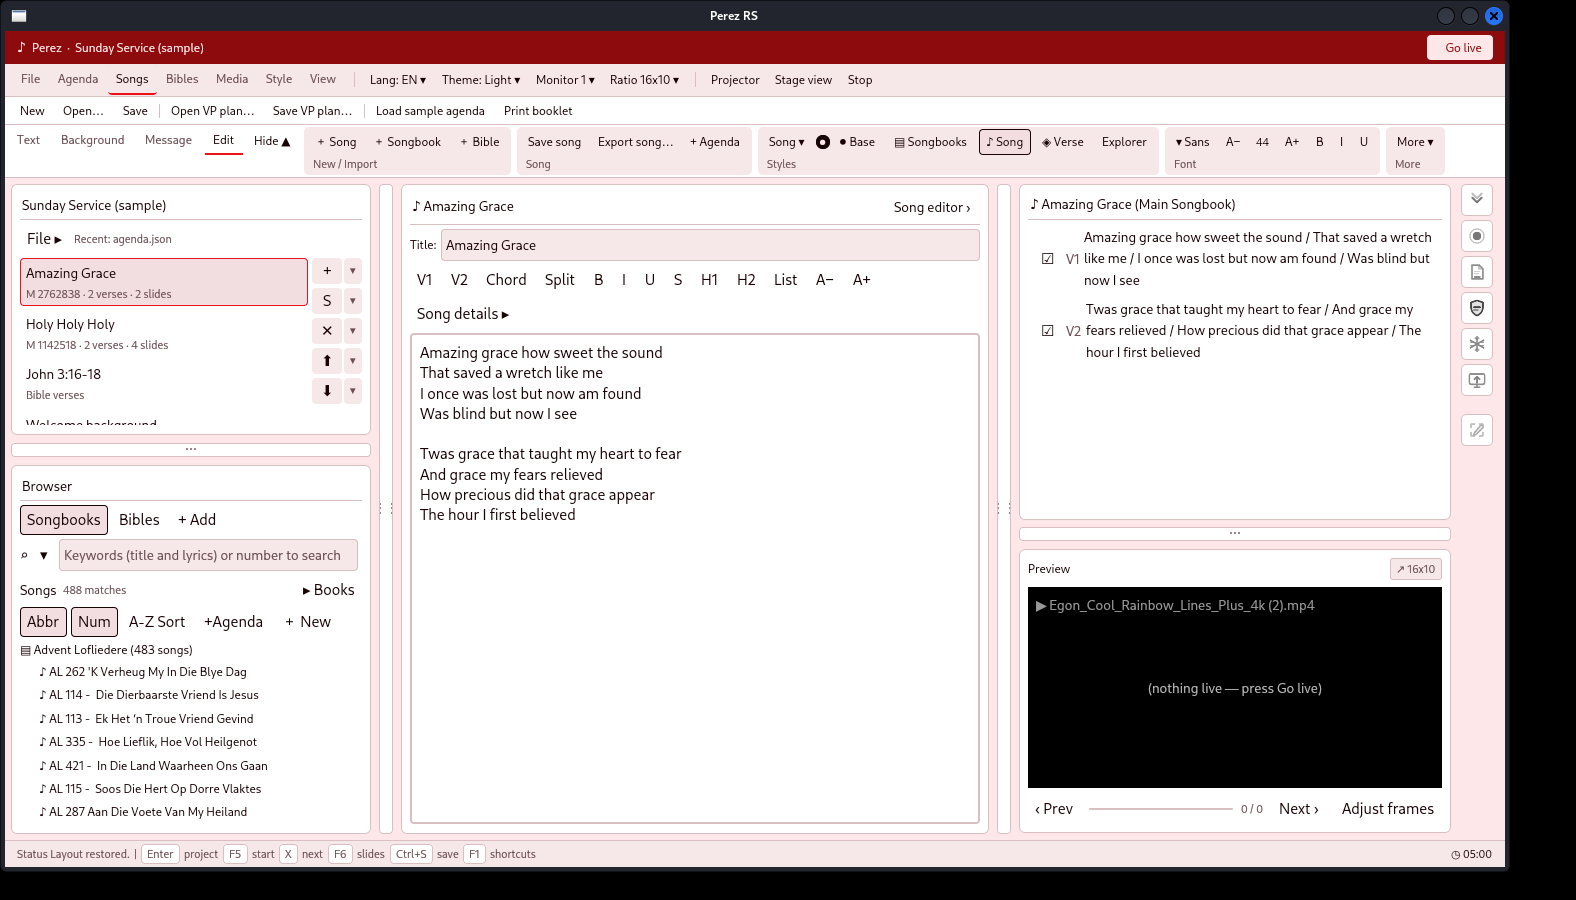
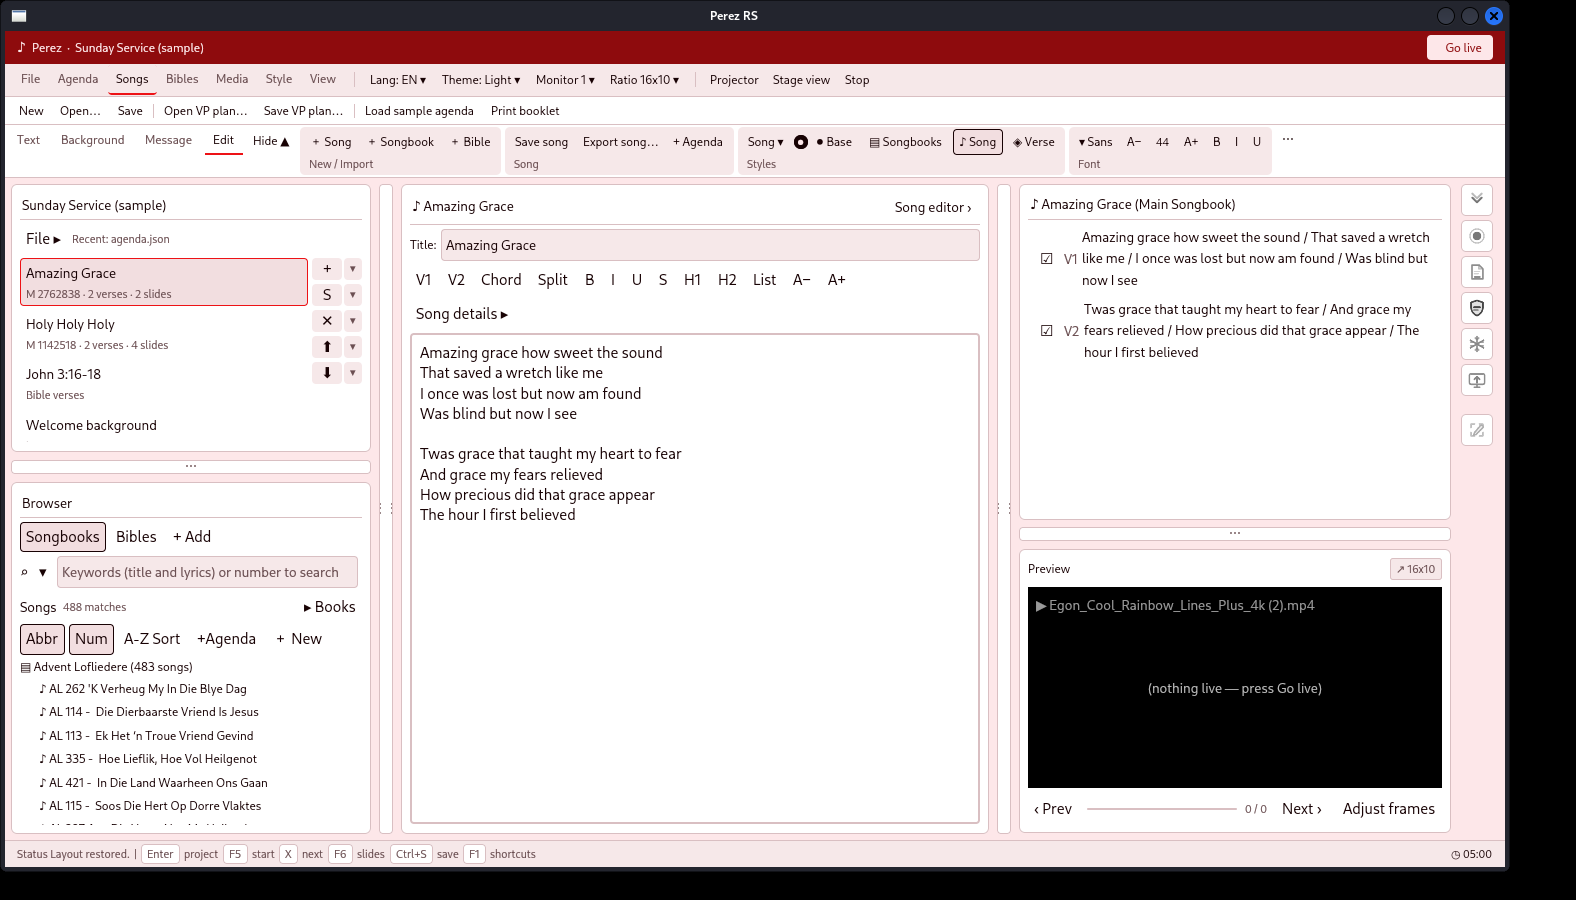
fix(gpui): round-3 review — fresh evidence, one-band ribbon, rail fit
- agenda rail buttons 22px + agenda cap floor 240px: fifth button whole at 1366
- ribbon fits one band at 1366: duplicate Explorer launcher removed, More is
  a single tooltipped control (not a More group with a More caption), tighter
  gaps/padding
- Agenda menu tab reflects an agenda-driven centre and clears transient preview
- fresh captures for all 5 skins at 1576x900 and 1366x768; option-list and
  empty-agenda states recaptured from this binary

tests: app 223 + vp-core 255 + misc 5 = 483 passed, zero warnings

diff --git a/gpui-app/app/src/main.rs b/gpui-app/app/src/main.rs
@@ -6250,7 +6250,7 @@ pub(crate) fn btn(
         (rgba(0x00000000), ui.fg, rgba(0x00000000))
     };
     let mut d = div()
-        .px(px(6.))
+        .px(px(5.))
         .py(px(2.))
         // One control row never collapses below its line box.
         .min_h(px(crate::ux::RIBBON_LINE_PX))
@@ -7612,10 +7612,20 @@ impl Root {
                 this.agenda_file_open = !this.agenda_file_open;
                 this.show_control(cx);
             }))
-            .child(menu_tab(ui, cx, "Agenda", false, |this, cx| {
-                this.show_control(cx);
-                this.set_status(cx, "Agenda.");
-            }))
+            .child(menu_tab(
+                ui,
+                cx,
+                "Agenda",
+                self.sel_item.is_some() && self.sel_song.is_none(),
+                |this, cx| {
+                    // Back to the agenda as the centre's source: drop the
+                    // transient library preview so the selected item drives
+                    // the slide panel again.
+                    this.sel_song = None;
+                    this.show_control(cx);
+                    this.set_status(cx, "Agenda.");
+                },
+            ))
             .child(menu_tab(
                 ui,
                 cx,
@@ -8596,14 +8606,9 @@ impl Root {
                 cx.notify();
             }));
         }
-        // Style Explorer launcher ends the preset row (not a third line of
-        // the group) — same handler; the tree still opens over whichever tab
-        // is active (UX-RESEARCH §5.3).
-        presets.push(btn(ui, cx, "Explorer", self.show_style_explorer, |this, _, _, cx| {
-            this.show_style_explorer = !this.show_style_explorer;
-            this.persist_layout_quiet();
-            cx.notify();
-        }));
+        // No second Explorer launcher: the Style menu tab already opens the
+        // same tree, and this one was the width that forced the ribbon to
+        // wrap to a second band at 1366.
         style_kids.push(row(presets));
         // Font group: family + B/I/U + alignment + chord notation.
         // Font dropdown (WI-029): every installed family, searchable — eight
@@ -8911,22 +8916,19 @@ impl Root {
             .child(group(ui, "Song", song_kids))
             .child(group(ui, &self.t("styles"), style_kids))
             .child(group(ui, &self.t("font"), font_kids))
-            // Set-once groups fold behind one labelled disclosure (RESEARCH
-            // P-15: never let the ribbon wrap into a mystery third band).
-            // Every control stays one click away; nothing is dropped.
-            .child(group(
+            // Set-once groups fold behind ONE disclosure control (RESEARCH
+            // P-15). It is deliberately a bare button, not a group with a
+            // "More" caption and a "More" label inside it.
+            .child(btn_tip(
                 ui,
-                "More",
-                vec![btn(
-                    ui,
-                    cx,
-                    if self.ribbon_more_open { "Fewer ▴" } else { "More ▾" },
-                    self.ribbon_more_open,
-                    |this, _, _, cx| {
-                        this.ribbon_more_open = !this.ribbon_more_open;
-                        cx.notify();
-                    },
-                )],
+                cx,
+                "⋯",
+                "More controls — colors, slide layout, animation, chords, text colour",
+                self.ribbon_more_open,
+                |this, _, _, cx| {
+                    this.ribbon_more_open = !this.ribbon_more_open;
+                    cx.notify();
+                },
             ))
             .when(self.ribbon_more_open, |d| {
                 d.child(group(ui, "Chord notation", more_kids))
@@ -9597,7 +9599,7 @@ impl Root {
         // Height-aware cap: a fixed 260px left the library browser with no
         // list on a 768px booth laptop. 30% of the window keeps ~5 agenda
         // rows while guaranteeing the song list below stays visible.
-        let cap = (vh * 0.30).clamp(180., 300.);
+        let cap = (vh * 0.32).clamp(240., 320.);
         wrap = match self.agenda_h {
             Some(h) => wrap.h(px(h)),
             None => wrap.flex_none().max_h(px(cap)),
@@ -9827,7 +9829,7 @@ impl Root {
                 .items_center()
                 .justify_center()
                 .w(px(30.))
-                .h(px(26.))
+                .h(px(22.))
                 .rounded(px(4.))
                 .bg(if enabled { ui.sunken } else { rgba(0x00000000) })
                 .text_color(if enabled { ui.fg } else { ui.muted })
@@ -9863,7 +9865,7 @@ impl Root {
                 .items_center()
                 .justify_center()
                 .w(px(18.))
-                .h(px(26.))
+                .h(px(22.))
                 .rounded(px(4.))
                 .bg(if open {
                     ui.fg

diff --git a/gpui-app/app/src/ux.rs b/gpui-app/app/src/ux.rs
@@ -1309,7 +1309,7 @@ pub const RIBBON_OUTER_PY: f32 = 2.0;
 pub const RIBBON_BAND_GAP: f32 = 2.0;
 pub const RIBBON_GROUP_PY: f32 = 2.0;
 pub const RIBBON_GROUP_PX: f32 = 4.0;
-pub const RIBBON_WRAP_GAP: f32 = 6.0;
+pub const RIBBON_WRAP_GAP: f32 = 4.0;
 /// Line box of a 12px control row, borders included (≈16px box). The
 /// chrome budget (≤160px of bands, panes from y190) is pinned by
 /// `control_window_chrome_stays_compact` below.

diff --git a/out/hillclimb/beauty-r/NOTES.md b/out/hillclimb/beauty-r/NOTES.md
@@ -139,6 +139,21 @@ After: `after-light-1576.png`, `after-dark-1576.png`, `after-light-1366.png`.
 - **C10 / R1-11 icons.** Rail uses the drawn SVG family; Next and Project are
   distinct shapes (double chevron vs play triangle).
 
+## Round 3 fixes (6.5/10 fresh captures, CHANGES 3/10)
+
+- **Fresh evidence, all skins.** light/dark/gray/blue/onyx at 1576x900 and
+  1366x768, from the current binary; option-list and empty-agenda states
+  recaptured.
+- **Agenda rail at 1366.** Rail buttons 26 -> 22px and the agenda cap floor
+  raised to 240px, so the fifth (down) button renders whole.
+- **One ribbon band at 1366.** Removed the duplicate Explorer launcher (the
+  Style menu owns that door), `More` is now a single `⋯` control with a
+  tooltip instead of a group captioned "More" containing a "More" button, and
+  the wrap gap/padding were tightened so Font stays on the first band.
+- **Agenda menu tab active state.** Active when an agenda item (not a transient
+  library preview) is driving the centre; clicking it drops the transient
+  selection and returns to the agenda.
+
 ## Verification
 
 - `cargo test --workspace`: app **223** + vp-core 255 + misc 5 = **483 passed,
